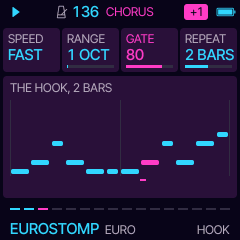
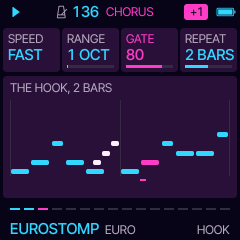
Tuplets, and less drive: headroom against the limiter
Tuplets between the sixteenths: a song's hook may hold a triplet (3 in the
space of 2 eighths), a quadruplet (4 in 3 eighths), a quintuplet (5 in 4
sixteenths) or a sextuplet (6 in 4 sixteenths), a run through the scale in
its motif's second half, more often the faster the SPEED; a fill may be a
snare triplet or a sextuplet roll over the last beat. The HOOK page draws
them. Tested: all four turn up across the songs, each over its span.

Overdriven: the mix sat in the master limiter and the styles' DRIVE stacked
on the sounds' own. MIX 100 is 2 dB lower, DRIVE reaches the distortion at
half the depth, the styles' DRIVE is lower (RAVE 45 to 18, VIKING 30 to 10,
EUROSTOMP 20 to 8, PARTY 25 to 10), and HOOVER, REESE, SYNTH, TRANCE bass,
ANTHEM and GROWL carry less drive of their own (their trims measured again).

Claude-Session: https://claude.ai/code/session_01VgesZfa87voKUPXLm26rpg

Changed region(s): [[0.7292, 0.5833, 0.9042, 0.7], [0.3792, 0.5833, 0.4958, 0.7], [0.4375, 0.7, 0.4958, 0.7292]]

diff --git a/firmware/src/si_groove.c b/firmware/src/si_groove.c
@@ -115,23 +115,23 @@ const si_style SI_STYLE[SI_STYLES] = {
     {"EUROSTOMP", SI_SIDE_CLUB, 136, 9, SI_SC_MINOR, 85, 55, SI_VOX_CHORUS, 80, {2, 3, 0, 0}, {0, 1, 3, 5}, 1,
      0, SI_HATS_OFFBEAT, SI_FILLS_8, SI_BL_OFFBEAT, SI_KICK_PUNCH, SI_CLAP_CLAP, SI_CRASH_SECTION, SI_CHANT_HEY,
      STAB_EURO, HOOK_MELODY, DRUMS_EURO, SI_SPEED_FAST, 1, 80, 2, P(SI_STABS) | P(SI_HOOK), 25, 25, SI_DTIME_3_16,
-     30, 20, 45, {{10, 11, 15}, {11, 8, 10}, {11, 14, 13}}},
+     30, 8, 45, {{10, 11, 15}, {11, 8, 10}, {11, 14, 13}}},
     {"VIKING", SI_SIDE_CLUB, 138, 4, SI_SC_HARMONIC, 80, 50, SI_VOX_CHORUS, 85, {4, 3, 1, 0}, {8, 4, 0, 3}, 1,
      0, SI_HATS_16THS, SI_FILLS_4, SI_BL_OCTAVE, SI_KICK_PUNCH, SI_CLAP_BOTH, SI_CRASH_SECTION, SI_CHANT_WHOA,
      STAB_EURO, HOOK_MELODY, DRUMS_EURO, SI_SPEED_MID, 2, 90, 2, P(SI_STABS) | P(SI_HOOK), 35, 20, SI_DTIME_8,
-     25, 30, 35, {{12, 13, 14}, {8, 15, 11}, {11, 12, 0}}},
+     25, 10, 35, {{12, 13, 14}, {8, 15, 11}, {11, 12, 0}}},
     {"BUBBLEGUM", SI_SIDE_CLUB, 130, 2, SI_SC_MAJOR, 90, 45, SI_VOX_CHORUS, 75, {5, 1, 3, 0}, {6, 7, 0, 1}, 1,
      0, SI_HATS_OFFBEAT, SI_FILLS_8, SI_BL_BOUNCE, SI_KICK_PUNCH, SI_CLAP_CLAP, SI_CRASH_SECTION, SI_CHANT_HO,
      STAB_BOUNCE, HOOK_MELODY, DRUMS_EURO, SI_SPEED_MID, 1, 50, 2, P(SI_STABS), 20, 20, SI_DTIME_8,
-     20, 10, 30, {{8, 10, 0}, {11, 14, 8}, {13, 7, 2}}},
+     20, 5, 30, {{8, 10, 0}, {11, 14, 8}, {13, 7, 2}}},
     {"HEARTACHE", SI_SIDE_CLUB, 134, 2, SI_SC_MINOR, 80, 50, SI_VOX_CHORUS, 70, {0, 0, 6, 0}, {2, 0, 5, 3}, 1,
      0, SI_HATS_OFFBEAT, SI_FILLS_8, SI_BL_OFFBEAT, SI_KICK_ROUND, SI_CLAP_CLAP, SI_CRASH_SECTION, SI_CHANT_HEY,
      STAB_PIANO, HOOK_MELODY, DRUMS_EURO, SI_SPEED_SLOW, 1, 95, 4, P(SI_STABS), 40, 25, SI_DTIME_3_16,
-     20, 10, 40, {{0, 11, 13}, {10, 12, 11}, {12, 11, 13}}},
+     20, 5, 40, {{0, 11, 13}, {10, 12, 11}, {12, 11, 13}}},
     {"RAVE", SI_SIDE_CLUB, 140, 6, SI_SC_MINOR, 80, 60, SI_VOX_CHORUS, 90, {6, 4, 5, 0}, {3, 0, 4, 1}, 1,
      0, SI_HATS_16THS, SI_FILLS_4, SI_BL_ROLLING, SI_KICK_PUNCH, SI_CLAP_BOTH, SI_CRASH_8, SI_CHANT_WHOA,
      STAB_RAVE, HOOK_MELODY, DRUMS_RAVE, SI_SPEED_FAST, 1, 60, 1, P(SI_STABS) | P(SI_HOOK), 25, 20, SI_DTIME_8,
-     45, 45, 10, {{15, 11, 7}, {5, 13, 15}, {14, 0, 15}}},
+     45, 18, 10, {{15, 11, 7}, {5, 13, 15}, {14, 0, 15}}},
     {"SKANK", SI_SIDE_RADIO, 95, 1, SI_SC_MINOR, 75, 15, SI_VOX_CHORUS, 55, {1, 2, 8, 0}, {10, 3, 0, 5}, 1,
      15, SI_HATS_8THS, SI_FILLS_8, SI_BL_REGGAE, SI_KICK_ROUND, SI_CLAP_SNARE, SI_CRASH_OFF, SI_CHANT_HEY,
      STAB_SKANK, HOOK_MELODY, DRUMS_SKANK, SI_SPEED_MID, 1, 70, 2, P(SI_STABS), 30, 30, SI_DTIME_3_16,
@@ -143,7 +143,7 @@ const si_style SI_STYLE[SI_STYLES] = {
     {"PARTY", SI_SIDE_RADIO, 140, 7, SI_SC_MAJOR, 90, 50, SI_VOX_ALL, 85, {4, 8, 7, 0}, {6, 7, 1, 0}, 1,
      0, SI_HATS_OFFBEAT, SI_FILLS_4, SI_BL_BOUNCE, SI_KICK_PUNCH, SI_CLAP_CLAP, SI_CRASH_SECTION, SI_CHANT_MIX,
      STAB_BOUNCE, HOOK_MELODY, DRUMS_EURO, SI_SPEED_FAST, 1, 55, 1, P(SI_STABS) | P(SI_HOOK), 20, 15, SI_DTIME_8,
-     20, 25, 30, {{12, 10, 5}, {11, 14, 1}, {13, 2, 11}}},
+     20, 10, 30, {{12, 10, 5}, {11, 14, 1}, {13, 2, 11}}},
     {"BALLAD", SI_SIDE_RADIO, 100, 4, SI_SC_MINOR, 90, 0, SI_VOX_OFF, 35, {9, 7, 4, 0}, {2, 0, 6, 5}, 2,
      0, SI_HATS_8THS, SI_FILLS_OFF, SI_BL_LONG, SI_KICK_ROUND, SI_CLAP_SNARE, SI_CRASH_SECTION, SI_CHANT_HEY,
      STAB_PAD, HOOK_MELODY, DRUMS_BALLAD, SI_SPEED_SLOW, 2, 95, 4, P(SI_STABS), 50, 25, SI_DTIME_4,
@@ -411,12 +411,36 @@ static void make_hook(si_groove *g, uint32_t seed)
     for (int i = 0; i < SI_HOOK_LEN; ++i) {
         g->hook[i] = -128;
         g->hook_len[i] = 0;
+        g->hook_tup[i] = 0;
     }
     int note = rnd_n(&r, 3) * 2;                   /* starts on the tonic, the third or the fifth */
     const uint8_t *rhy = HOOK_RHY[sp][rnd_n(&r, 4)];
     int8_t a[16], b[16];
     uint8_t al[16], bl[16];
     hook_bar(a, al, rhy, &r, &note, lo, hi);
+    /* now and then a tuplet in the motif's second half (more often the faster the hook): a run of 3, 4, 5 or 6
+     * notes in the space of 4 or 6 sixteenths, from the note the walk reached; the answers keep their plain rhythm */
+    uint8_t at[16] = {0};
+    {
+        static const uint8_t CHANCE[SI_SPEED_PAD] = {20, 40, 55};   /* % a song: SLOW MID FAST */
+        if (rnd_n(&r, 100) < CHANCE[sp]) {
+            static const uint8_t KINDS[4] = {3, 4, 5, 6};
+            int n = KINDS[rnd_n(&r, 4)], span = si_tuplet_span(n);
+            int pos = span == 6 ? (rnd_n(&r, 2) ? 8 : 10) : (rnd_n(&r, 2) ? 8 : 12);
+            int start = -128;
+            for (int k = pos; k >= 0 && start == -128; --k)
+                start = a[k];
+            if (start == -128)
+                start = 2;
+            for (int k = pos; k < pos + span && k < 16; ++k) {
+                a[k] = -128;
+                al[k] = 0;
+            }
+            a[pos] = (int8_t)clampi(start, lo + 1, hi - 1);
+            al[pos] = (uint8_t)span;
+            at[pos] = (uint8_t)n;
+        }
+    }
     /* the answer: A's first half, a new second half; its last note on the tonic or the fifth, held */
     memcpy(b, a, sizeof b);
     memcpy(bl, al, sizeof bl);
@@ -441,6 +465,7 @@ static void make_hook(si_groove *g, uint32_t seed)
         for (int i = 0; i < 16; ++i) {
             g->hook[bar * 16 + i] = answer ? b[i] : a[i];
             g->hook_len[bar * 16 + i] = answer ? bl[i] : al[i];
+            g->hook_tup[bar * 16 + i] = answer ? 0 : at[i];
         }
     }
     if (rep == 4) {                                /* the phrase's last bar: lands home, long */
@@ -909,7 +934,21 @@ static void play_drums(si_groove *g, int i, uint32_t delay, float hum)
         static const uint8_t EVERY[SI_FILLS_COUNT] = {0, 8, 4, 2};
         int ev = EVERY[g->s.fills], b = sec_bar(g);
         bool pre = g->s.arc && g->sec == SI_SEC_PRE;
-        if (!pre && ev && (b % ev) == ev - 1 && i >= 12) {   /* a fill: the backbeat drum on the sixteenths, rising */
+        int fill_kind = (int)(((uint32_t)b * 2654435761u + (uint32_t)g->s.song * 40503u) >> 13) % 3;
+        if (!pre && ev && (b % ev) == ev - 1 && i >= 12 && fill_kind > 0) {
+            /* a fill as a tuplet over the last beat: a snare triplet (3 in the space of 4 sixteenths) or a sextuplet
+             * roll (6 in 4), rising */
+            if (i == 12) {
+                int tn = fill_kind == 1 ? 3 : 6;
+                vel[back_d] = 0;                   /* (the tuplet's first hit is the beat's)*/
+                float each = step_frames(g) * 4.0f / (float)tn;
+                for (int k = 0; k < tn; ++k)
+                    schedule(g, delay + (uint32_t)(each * (float)k), SI_DRUMS, back_d, clampi(72 + k * 40 / tn, 1, 127), 0);
+            }
+            vel[SI_DR_OPEN] = i == 15 ? 100 : 0;
+            if (i >= 13)
+                vel[SI_DR_HAT] = 0;
+        } else if (!pre && ev && (b % ev) == ev - 1 && i >= 12) {   /* a fill: the backbeat drum on the sixteenths, rising */
             if ((g->drum_var & 2) ? (i % 2 == 0 || i >= 14) : (i == 13 || i == 14 || i == 15))
                 vel[back_d] = 70 + (i - 12) * 12;
             vel[SI_DR_OPEN] = i == 15 ? 100 : 0;
@@ -1133,7 +1172,21 @@ static void play_hook(si_groove *g, int i, uint32_t delay, float sf, float hum)
     if (g->hook[hp] == -128)
         return;
     int len = g->hook_len[hp];
-    int n = step_note(g->s.scale, 60 + g->s.key - (g->s.key > 6 ? 12 : 0), g->hook[hp]);
+    int base = 60 + g->s.key - (g->s.key > 6 ? 12 : 0);
+    if (g->hook_tup[hp]) {                         /* a tuplet: its notes evenly over len sixteenths, a run through the
+                                                    * scale (up, or down from a high start), the first onto the chord */
+        int tn = g->hook_tup[hp], dir = g->hook[hp] >= 5 ? -1 : 1;
+        float each = sf * (float)len / (float)tn;
+        for (int k = 0; k < tn; ++k) {
+            int nn = step_note(g->s.scale, base, g->hook[hp] + dir * k);
+            if (k == 0)
+                nn = si_snap(&g->s, nn);
+            int v = 96 + (k == 0 ? 14 : 0) + (int)(hum * 6.0f) - (brk ? 18 : 0);
+            schedule(g, delay + (uint32_t)(each * (float)k), SI_HOOK, nn, clampi(v, 1, 127), each * 0.9f);
+        }
+        return;
+    }
+    int n = step_note(g->s.scale, base, g->hook[hp]);
     if (len >= 2 || i % 4 == 0) {                  /* the long and strong notes onto the chord */
         int best = n, bd = 99;
         for (int t = 0; t < 3; ++t)

diff --git a/firmware/src/si_sounds.h b/firmware/src/si_sounds.h
@@ -47,9 +47,9 @@ static const preset_t SIS_SUPERLEAD = {"SUPER LEAD", {0, 30, 64, 0, 112, 18, 16,
 /* the octave bass of the offbeat: a saw with its sub-octave, plucked by the filter envelope (Daurade's) */
 static const preset_t SIS_OCTAVE = {"OCTAVE", {6, 0, 40, 0, 62, 35, 20, 64}, {0, 52, 60, 14}, 30, 1, FX(5, 0, 5, 10)};
 /* the reese: two saws beating slowly against each other, low and dark */
-static const preset_t SIS_REESE = {"REESE", {0, 22, 64, 0, 58, 20, 35, 64}, {0, 80, 110, 18}, 6, 1, FX(10, 0, 0, 8)};
+static const preset_t SIS_REESE = {"REESE", {0, 22, 64, 0, 58, 20, 15, 64}, {0, 80, 110, 18}, 6, 1, FX(0, 0, 0, 8)};
 /* the hoover: a wide pulse, detuned, a growl of drive, gliding (the hook's) */
-static const preset_t SIS_HOOVER = {"HOOVER", {4, 38, 64, 0, 96, 30, 45, 64}, {0, 70, 100, 30}, 16, 1, FX(20, 40, 20, 25)};
+static const preset_t SIS_HOOVER = {"HOOVER", {4, 38, 64, 0, 96, 30, 20, 64}, {0, 70, 100, 30}, 16, 1, FX(6, 40, 20, 25)};
 /* the sung hook: the VOICE engine breathy and round, its vowels and their glide the VOX page's */
 static const preset_t SIS_OOH = {"OOH", {127, 0, 40, 0, 70, 35, 80, 8}, {10, 70, 110, 40}, 0, 1, FX(0, 40, 30, 40)};
 /* ---- 0.4's own: the sounds a style can vary between (si_groove.c's pools) ---- */
@@ -61,15 +61,15 @@ static const preset_t SIS_TRANCESTAB = {"TRANCE", {0, 38, 64, 0, 110, 24, 12, 64
 static const preset_t SIS_CHOIR = {"CHOIR", {0, 0, 40, 0, 40, 26, 64, 6}, {14, 90, 112, 60}, 0, 0, FX(0, 70, 15, 70)};
 static const preset_t SIS_CHOIRLEAD = {"CHOIR", {0, 0, 40, 0, 50, 22, 70, 6}, {10, 80, 112, 50}, 0, 1, FX(0, 50, 30, 60)};
 /* BASS: a punchy analogue saw, short and dry */
-static const preset_t SIS_SYNTHBASS = {"SYNTH BASS", {0, 0, 0, 0, 70, 40, 30, 64}, {0, 46, 30, 10}, 34, 1, FX(10, 0, 0, 6)};
+static const preset_t SIS_SYNTHBASS = {"SYNTH BASS", {0, 0, 0, 0, 70, 40, 12, 64}, {0, 46, 30, 10}, 34, 1, FX(0, 0, 0, 6)};
 /* BASS: the trance bass, a bright saw with a little detune, rolling */
-static const preset_t SIS_TRANCEBASS = {"TRANCE BASS", {0, 10, 64, 0, 84, 22, 18, 64}, {0, 62, 82, 12}, 20, 1, FX(5, 0, 0, 8)};
+static const preset_t SIS_TRANCEBASS = {"TRANCE BASS", {0, 10, 64, 0, 84, 22, 8, 64}, {0, 62, 82, 12}, 20, 1, FX(0, 0, 0, 8)};
 /* BASS: a deep sine with a click on top */
 static const preset_t SIS_SINEBASS = {"SINE BASS", {3, 0, 0, 0, 127, 0, 25, 0}, {0, 70, 100, 12}, 0, 1, FX(0, 0, 0, 4)};
 /* HOOK: REEDS, the accordion's musette: two pulses beating against each other, as its reeds do */
 static const preset_t SIS_MUSETTE = {"MUSETTE", {4, 16, 64, 0, 96, 12, 18, 64}, {3, 70, 112, 28}, 0, 1, FX(0, 30, 30, 35)};
 /* HOOK: the anthem lead: saws wide and driven, a slow glide */
-static const preset_t SIS_ANTHEM = {"ANTHEM", {0, 26, 64, 0, 108, 15, 28, 64}, {4, 70, 110, 35}, 10, 1, FX(10, 40, 40, 40)};
+static const preset_t SIS_ANTHEM = {"ANTHEM", {0, 26, 64, 0, 108, 15, 10, 64}, {4, 70, 110, 35}, 10, 1, FX(0, 40, 40, 40)};
 /* HOOK: the whistle: a sine with a breath of noise */
 static const preset_t SIS_WHISTLE = {"WHISTLE", {3, 0, 0, 6, 127, 0, 0, 64}, {6, 70, 110, 25}, 0, 1, FX(0, 20, 40, 45)};
 /* HOOK: a trance pluck lead, snappy */
@@ -118,11 +118,11 @@ static const sis_sound SIS_SOUND[3][SI_SOUNDS] = {
         SO("OCTAVE", SIS_ANALOG, 0, SIS_OCTAVE, SIS_KEEP, SIS_KEEP, SIS_MONO, 4, -1),
         SX("WOW", SIS_VOICE, 2, SIS_KEEP, 24, SIS_LEGATO, -1, -3),
         SX("ORGAN", SIS_WHEEL, 1, SIS_KEEP, SIS_KEEP, SIS_MONO, 3, -4),   /* the 90s organ bass */
-        SO("SYNTH", SIS_ANALOG, 0, SIS_SYNTHBASS, SIS_KEEP, SIS_KEEP, SIS_MONO, 4, 4),
+        SO("SYNTH", SIS_ANALOG, 0, SIS_SYNTHBASS, SIS_KEEP, SIS_KEEP, SIS_MONO, 4, 2),
         SO("SINE", SIS_ANALOG, 0, SIS_SINEBASS, SIS_KEEP, SIS_KEEP, SIS_MONO, -1, -14),
-        SO("TRANCE", SIS_ANALOG, 0, SIS_TRANCEBASS, SIS_KEEP, SIS_KEEP, SIS_MONO, 4, -4),
+        SO("TRANCE", SIS_ANALOG, 0, SIS_TRANCEBASS, SIS_KEEP, SIS_KEEP, SIS_MONO, 4, -6),
         SX("DX", SIS_FM6, 7, SIS_KEEP, SIS_KEEP, SIS_MONO, 2, -1),        /* FM6's PLUCK, low and hard */
-        SX("GROWL", SIS_PHASE, 0, 20, SIS_KEEP, SIS_MONO, 2, -10),         /* PHASE's BRASS in the low end, driven */
+        SX("GROWL", SIS_PHASE, 0, 6, SIS_KEEP, SIS_MONO, 2, -9),          /* PHASE's BRASS in the low end */
     },
     {   /* HOOK */
         SO("SUPER", SIS_ANALOG, 0, SIS_SUPERLEAD, SIS_KEEP, 6, SIS_UNISON, 4, -8),
@@ -130,7 +130,7 @@ static const sis_sound SIS_SOUND[3][SI_SOUNDS] = {
         S("PLUCK", SIS_ANALOG, 8, 4, 2),
         S("BELL", SIS_FM6, 1, 2, -3),
         S("PIANO", SIS_SAMPLE, 1, 4, -18),
-        SO("HOOVER", SIS_ANALOG, 0, SIS_HOOVER, SIS_KEEP, 14, SIS_LEGATO, 4, -15),
+        SO("HOOVER", SIS_ANALOG, 0, SIS_HOOVER, SIS_KEEP, 14, SIS_LEGATO, 4, -14),
         SO("OOH", SIS_VOICE, 0, SIS_OOH, SIS_KEEP, SIS_KEEP, SIS_LEGATO, -1, -12),
         S("SYNC", SIS_TRIO, 2, 5, -6),
         S("FLUTE", SIS_WHEEL, 3, 3, -7),                 /* SOFT FLUTE */
@@ -231,8 +231,9 @@ static inline void sis_track(track_t *t, const si_groove *g, int part)
     const si_style *st = &SI_STYLE[s->style];
     const sis_sound *snd = part == SI_DRUMS ? 0 : sis_of(g, part);
     bool lifted = (st->lift_parts >> part) & 1u;
-    /* MIX: 100 is 0 dB, each step down 0.3 dB (MIX 50: -15 dB), 0 off; then the sound's trim (F_DB: half-dB steps) */
-    int lvl = 112 - (100 - s->lvl[part]) * 6 / 10 + (snd ? snd->trim : SIS_KIT_TRIM[s->snd[3] % SI_KIT_COUNT]);
+    /* MIX: 100 is -2 dB (headroom: the master limiter stays out of it), each step down 0.3 dB (MIX 50: -17 dB), 0 off;
+     * then the sound's trim (F_DB: half-dB steps) */
+    int lvl = 108 - (100 - s->lvl[part]) * 6 / 10 + (snd ? snd->trim : SIS_KIT_TRIM[s->snd[3] % SI_KIT_COUNT]);
     t->p[P_LEVEL] = sis_clamp(s->lvl[part] ? lvl : 0, 1, 127);
     /* the place: the stabs a little left and spread, the hook a little right, the bass and drums centred */
     int w = s->width;
@@ -307,7 +308,7 @@ static inline void sis_track(track_t *t, const si_groove *g, int part)
             t->p[P_E5] = sis_clamp(s->reso * 120 / 100, 0, 127);
         else if (snd->engine == SIS_TRIO)
             t->p[P_E6] = sis_clamp(s->reso * 120 / 100, 0, 127);
-        t->p[P_DIST] = sis_clamp((snd->dist >= 0 ? snd->dist : 0) + s->drive * 90 / 100, 0, 127);
+        t->p[P_DIST] = sis_clamp((snd->dist >= 0 ? snd->dist : 0) + s->drive * 50 / 100, 0, 127);   /* (DRIVE 100: 50) */
         if (s->crush) {
             t->p[P_ITYPE] = 5;                    /* IT_CRUSH: the bits fall as CRUSH rises, the rate with them */
             t->p[P_IA] = sis_clamp(127 - s->crush * 100 / 100, 16, 127);

diff --git a/firmware/src/si_groove.h b/firmware/src/si_groove.h
@@ -50,6 +50,10 @@ enum { SI_SPEED_SLOW, SI_SPEED_MID, SI_SPEED_FAST, SI_SPEED_PAD, SI_SPEED_COUNT 
 /* the drums as the groove names them, the crowd's chants among them; the glue maps them to the kit (si_sounds.h) */
 enum { SI_DR_KICK, SI_DR_SNARE, SI_DR_CLAP, SI_DR_HAT, SI_DR_OPEN, SI_DR_CRASH, SI_DR_HEY, SI_DR_HO, SI_DR_WHOA,
        SI_DR_COUNT };
+/* the tuplets the hook and the fills play, as (notes, in the space of sixteenths): 3 in 4 (a triplet: three in the
+ * space of two eighths), 4 in 6 (a quadruplet: four in the space of three eighths), 5 in 4 (a quintuplet: five in
+ * the space of four sixteenths), 6 in 4 (a sextuplet: six in the space of four sixteenths) */
+static inline int si_tuplet_span(int n) { return n == 4 ? 6 : 4; }
 /* the form's sections, in the order they play (ARC on); after the second CHORUS, round again from VERSE */
 enum { SI_SEC_INTRO, SI_SEC_VERSE, SI_SEC_PRE, SI_SEC_CHORUS, SI_SEC_BREAK, SI_SEC_CHORUS2, SI_SECS };
 #define SI_SETS 8
@@ -116,6 +120,7 @@ typedef struct {
     uint8_t stab_pat, bass_pat, drum_var, hook_var;
     int8_t hook[SI_HOOK_LEN];                      /* scale steps from the key's tonic (-128: rest); length in hook_len */
     uint8_t hook_len[SI_HOOK_LEN];
+    uint8_t hook_tup[SI_HOOK_LEN];                 /* a tuplet starting there: its notes (3 4 5 6; 0 none), over hook_len */
     uint32_t rnd;                                  /* the per-note randomness (human, ghosts): seeded per bar */
     /* what waits for the next bar line */
     int next_style;                                /* -1 none */

diff --git a/tests/si_groove_test.c b/tests/si_groove_test.c
@@ -287,6 +287,27 @@ int main(void)
               "song %d: other stabs (%d), reloaded", target + 1, g.s.snd[0]);
     }
     si_play(&g, false);
+    /* tuplets: the songs' hooks hold triplets, quadruplets, quintuplets and sextuplets, played evenly */
+    {
+        int kinds[7] = {0}, with = 0;
+        si_style_apply(&g.s, SI_ST_EUROSTOMP);
+        for (int song = 0; song < 120; ++song) {
+            g.s.song = (uint16_t)song;
+            si_rebuild(&g);
+            int any = 0;
+            for (int k = 0; k < SI_HOOK_LEN; ++k)
+                if (g.hook_tup[k]) {
+                    kinds[g.hook_tup[k]]++;
+                    any = 1;
+                    CHECK(g.hook_len[k] == si_tuplet_span(g.hook_tup[k]), "a tuplet of %d over %d sixteenths (%d)",
+                          g.hook_tup[k], si_tuplet_span(g.hook_tup[k]), g.hook_len[k]);
+                }
+            with += any;
+        }
+        CHECK(kinds[3] && kinds[4] && kinds[5] && kinds[6], "all four tuplets turn up (3:%d 4:%d 5:%d 6:%d)", kinds[3],
+              kinds[4], kinds[5], kinds[6]);
+        CHECK(with > 20 && with < 100, "some songs have one, not every song (%d of 120)", with);
+    }
     /* the hook's phrase: REPEAT bars of it */
     g.s.repeat = 4;
     si_rebuild(&g);

diff --git a/firmware/src/si_ui.c b/firmware/src/si_ui.c
@@ -809,6 +809,17 @@ static void su_panel_hook(si_ui *u)
             if (g->hook[k] == -128)
                 continue;
             int len = g->hook_len[k];
+            if (g->hook_tup[k]) {                  /* a tuplet: its notes evenly over its span, a run */
+                int tn = g->hook_tup[k], dir = g->hook[k] >= 5 ? -1 : 1;
+                bool on = pos >= k && pos < k + len;
+                for (int j = 0; j < tn; ++j) {
+                    int st = su_clampi(g->hook[k] + dir * j, lo, hi);
+                    int32_t x = x0 + k * w / n + j * (len * w / n) / tn, ww = (len * w / n) / tn - 1;
+                    int32_t y = y0 + h - 7 - (st - lo) * (h - 10) / (hi - lo > 0 ? hi - lo : 1);
+                    cv_rrect(x + 1, y, ww > 2 ? ww : 2, 5, 2, on ? T_ACCENT : T_TEXT, T_SURF);
+                }
+                continue;
+            }
             int32_t x = x0 + k * w / n, ww = len * w / n - 2;
             int32_t y = y0 + h - 7 - (su_clampi(g->hook[k], lo, hi) - lo) * (h - 10) / (hi - lo > 0 ? hi - lo : 1);
             bool on = pos >= k && pos < k + len;

diff --git a/docs/MANUAL.md b/docs/MANUAL.md
@@ -54,12 +54,12 @@ Then round again from the VERSE, with a new hook and the key back home. With ARC
 | **TONE** (FX again) | **RESO** the lifted filter's resonance. **DRIVE** saturation. **DETUNE** the chorus that thickens the stabs and the hook. **CRUSH** bits and rate, down from clean. |
 | **VOX** (LFO) | **VOWELS** the two vowels the OOH sound sings between (OO-AH, AH-EE, OH-AH, OO-EE, AH-OH). **SHIFT** its formants, -12 to +12. **CHANT** what the crowd shouts: HEY, HO, WHOA or a MIX. **GLIDE** between the OOH's notes. The panel shows where the shouts fall in two bars. |
 | **KEY** (SCL) | **KEY** the root. **SCALE** MINOR, MAJOR, DORIAN, HARMONIC MINOR. **CHORDS** one of twelve chord loops. **BARS** a chord lasts 1, 2 or 4 bars. |
-| **GROOVE** (ARP) | **SWING** on the sixteenths. **HATS** 8THS, 16THS, OFFBEAT or OPEN. **BASS** the bass line: OFFBEAT, OCTAVE, ROLLING, REGGAE, LONG or BOUNCE. **FILLS** every 8, 4 or 2 bars, or none. |
+| **GROOVE** (ARP) | **SWING** on the sixteenths. **HATS** 8THS, 16THS, OFFBEAT or OPEN. **BASS** the bass line: OFFBEAT, OCTAVE, ROLLING, REGGAE, LONG or BOUNCE. **FILLS** every 8, 4 or 2 bars, or none: sixteenths, or a snare triplet or sextuplet roll over the last beat. |
 | **DRUMS** (EDIT) | **KIT** as on SOUND. **KICK** PUNCH or ROUND. **CLAP** the backbeat: CLAP, SNARE or BOTH. **CRASH** OFF, on each SECTION, or every 8 BARS in the chorus too. |
 | **MIX** (GLO) | the four parts' levels. |
 | **SPACE** (GLO again) | **REVERB**, **DELAY**, **TIME** the delay in 1/16, 1/8, 3/16 or 1/4, **WIDTH** the stereo spread. |
 | **ARC** (ENV) | **ARC** on: the song has its form; off: the chorus on and on. **VERSE** 8 or 16 bars. **CHORUS** 8 or 16 bars. **KEY UP** the last chorus OFF, +1 or +2. |
-| **HOOK** (ENV again) | **SPEED** SLOW (long sung notes), MID (eighths), FAST (the syncopated sixteenth riff) or PAD (no tune: the chords held, a fill that plays through the verse too; PIANOHOUSE starts with it, on the PAD sound). **RANGE** 1 or 2 octaves. **GATE** how long each note holds. **REPEAT** the hook's phrase: 1, 2 or 4 bars, a motif and its answer. The panel draws the hook, the note playing lit (ITALO: its arpeggio). |
+| **HOOK** (ENV again) | Some songs' hooks hold a tuplet: a triplet (3 notes in the space of 2 eighths), a quadruplet (4 in the space of 3 eighths), a quintuplet (5 in the space of 4 sixteenths) or a sextuplet (6 in the space of 4 sixteenths), more often the faster the SPEED; the panel draws it. **SPEED** SLOW (long sung notes), MID (eighths), FAST (the syncopated sixteenth riff) or PAD (no tune: the chords held, a fill that plays through the verse too; PIANOHOUSE starts with it, on the PAD sound). **RANGE** 1 or 2 octaves. **GATE** how long each note holds. **REPEAT** the hook's phrase: 1, 2 or 4 bars, a motif and its answer. The panel draws the hook, the note playing lit (ITALO: its arpeggio). |
 | **SETS** (SAVE) | Eight sets: the whole song, style and all. **SET** picks one, **LOAD** and **STORE** turned right do it, **CLEAR** turned right three times empties it. |
 | **MENU** (hold HOME) | **COLOR** the palette: LASER by default, and Felucca's. **LOOK** FLAT or LINE. |
 

diff --git a/docs/DEVELOPMENT.md b/docs/DEVELOPMENT.md
@@ -92,6 +92,13 @@ Sill's files are `firmware/src/si_*`, `tests/si_*`, `tools/si_*`, `web/si_*` and
   presets cost bytes, not kilobytes: no samples). Each style names its own sound for each part and three more; a
   song's number picks one of the four (song 1 always the style's own), so the songs of a style vary, and a song comes
   back with the same sounds. Names stay short enough for a card (the screen test lints every one).
+- **Tuplets between the sixteenths.** The engine counts sixteenths but schedules a note at any frame, so a tuplet's
+  notes fall evenly inside its span: 3 in 4 sixteenths, 4 in 6, 5 in 4, 6 in 4. A song's hook may hold one in its
+  motif's second half (20, 40, 55 % of songs at SLOW, MID, FAST), a run through the scale; a fill may be a snare
+  triplet or a sextuplet roll over the last beat.
+- **Headroom, not drive.** The mix sat in Felucca's master limiter and the styles' DRIVE stacked on the sounds' own,
+  so it sounded overdriven: MIX 100 is -2 dB now, DRIVE reaches the distortion at half the depth, the styles' DRIVE
+  is lower (RAVE 18, VIKING 10, EUROSTOMP 8), and the hot sounds (HOOVER, REESE, SYNTH, ANTHEM, GROWL) less driven.
 - **Eight voices for everything.** Felucca shares eight voices across the four tracks. The stabs play three notes,
   the held chords four; every drum and shout has a ring length; the SUPER hook takes every free voice (UNISON) and
   gives its extra ones up first. Measured over 75 s through Felucca's engines: RAVE and SKANK steal 5, EUROSTOMP
